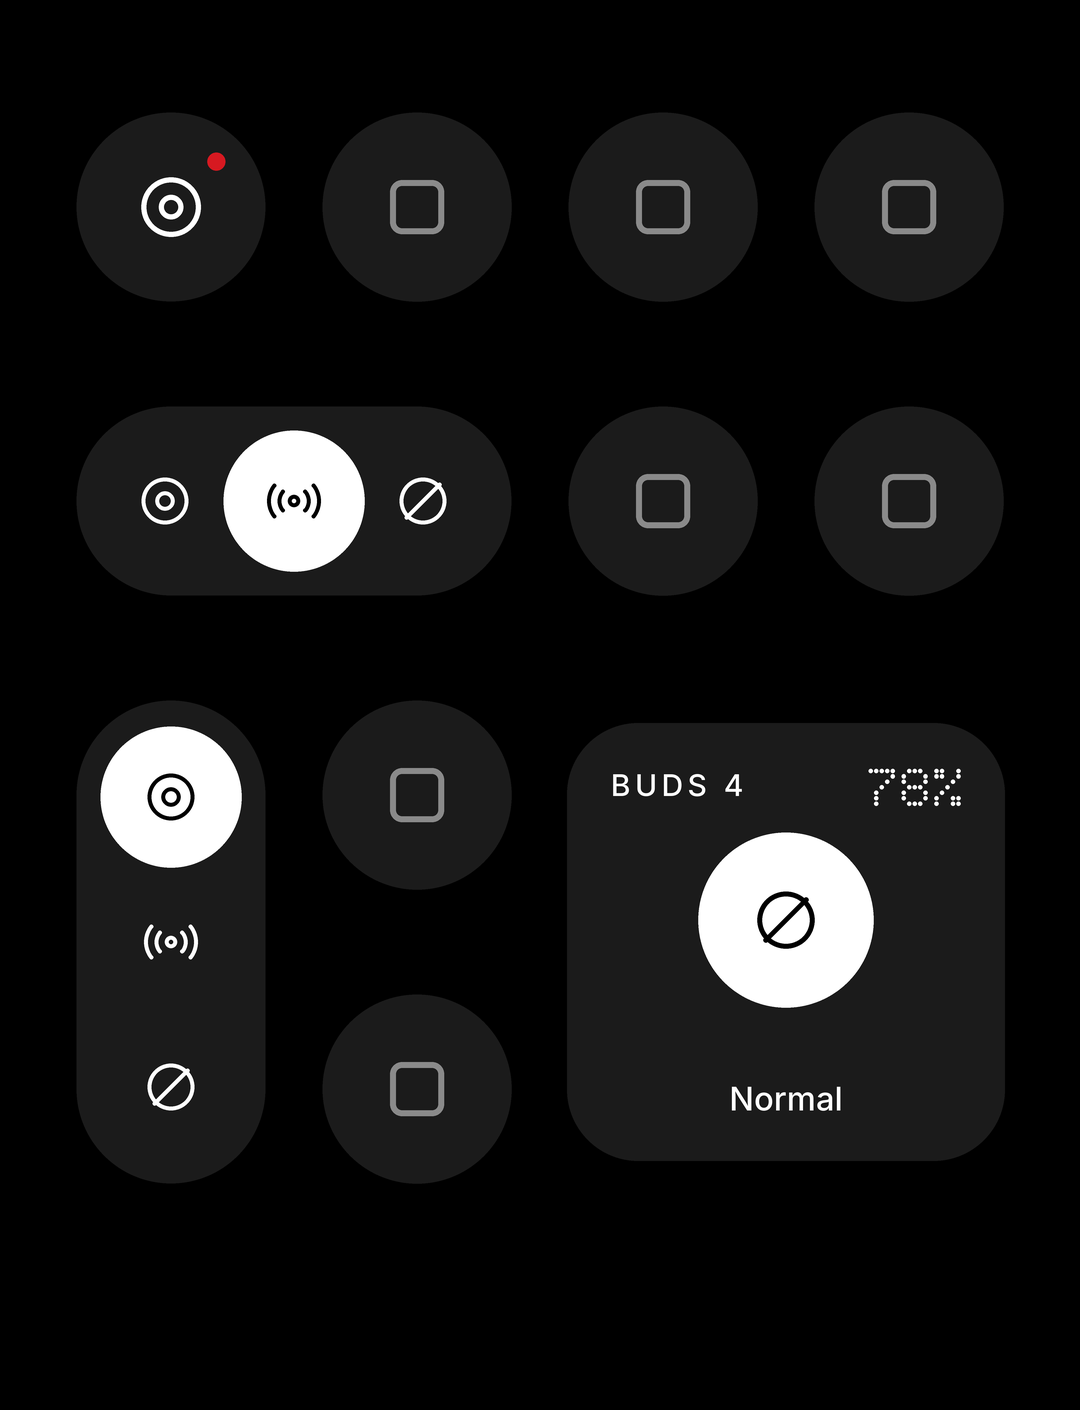
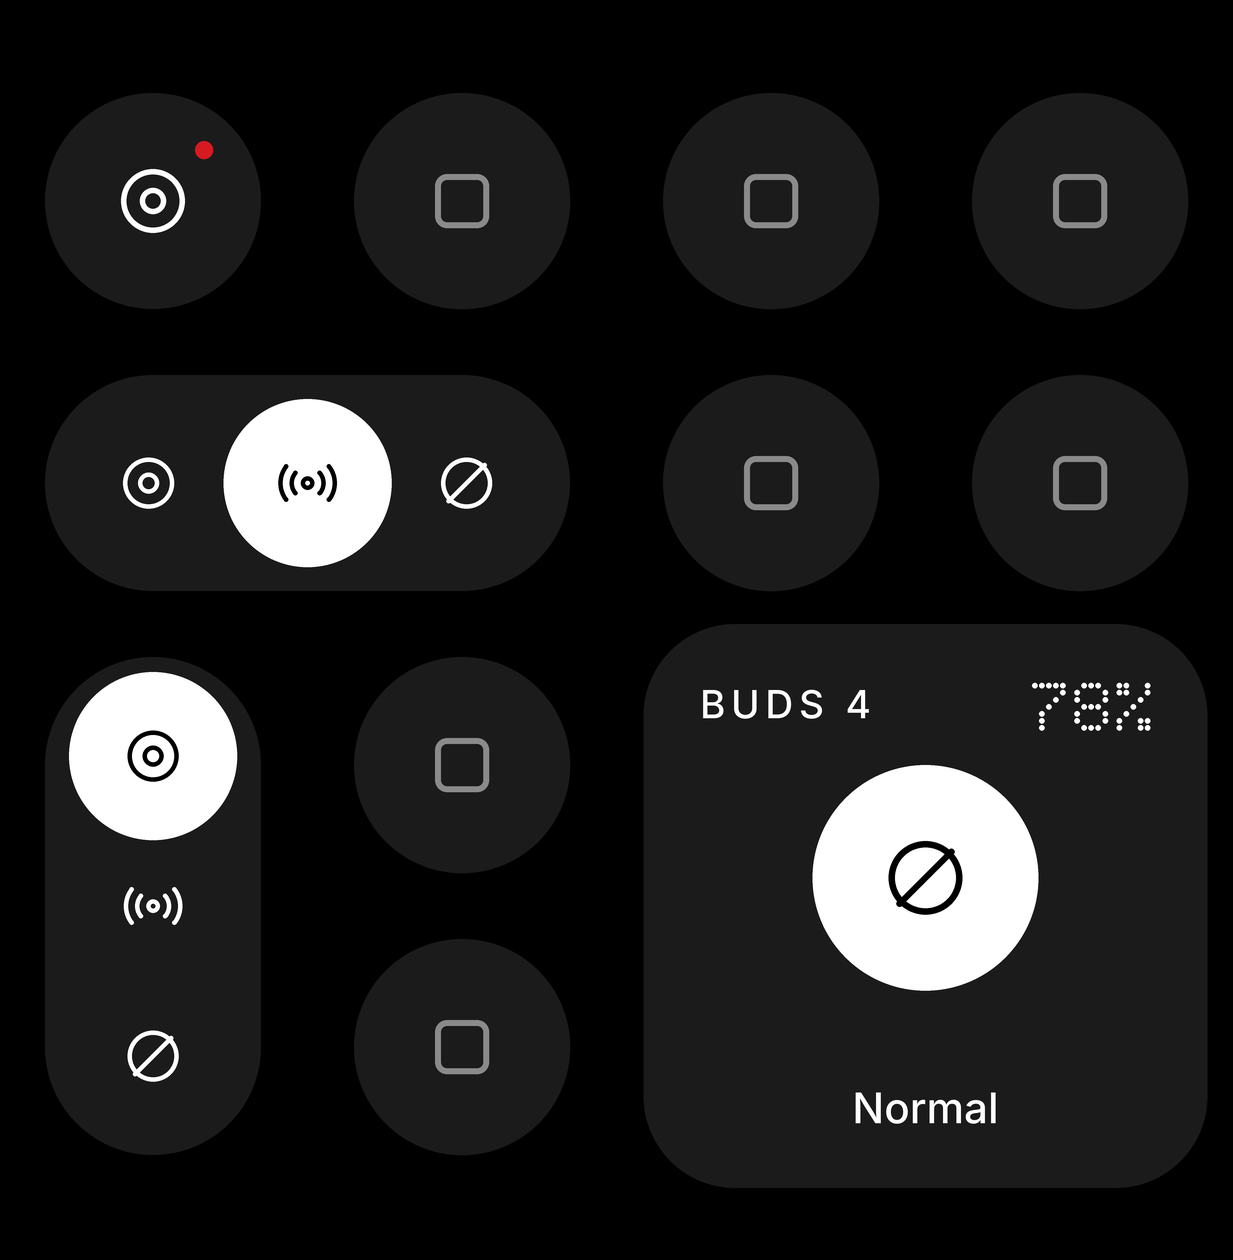
Widget 1x1 del mismo tamaño que los íconos de Nothing OS (72 dp)
Medido en un Nothing Phone (2a): los íconos de apps miden 72 dp y el
círculo del widget quedaba en 64 dp. Ahora círculo y cápsulas usan 72 dp,
con íconos y círculo activo escalados en proporción. Los umbrales de las
vistas adaptables se ajustan a una celda de ≈ 103×94 dp para que el 1x1
nunca caiga en otro formato.

Claude-Session: https://claude.ai/code/session_013JTBCs7RU5vFRzuqjwAFHg

diff --git a/3.Widget-Buds-Nothing/app/src/main/java/cl/tecnocreativas/budswidget/widget/BudsWidgetProvider.kt b/3.Widget-Buds-Nothing/app/src/main/java/cl/tecnocreativas/budswidget/widget/BudsWidgetProvider.kt
@@ -54,17 +54,17 @@ open class BudsWidgetProvider : AppWidgetProvider() {
 
         /**
          * Vistas adaptables. El launcher usa la más grande que quepa en el tamaño real del
-         * widget (en dp). En un Nothing de 4 columnas la celda mide ≈ 82×98 dp.
+         * widget (en dp). En el Nothing Phone (2a) con 4 columnas una celda mide ≈ 103×94 dp.
          */
         fun build(ctx: Context): RemoteViews {
             val s = BudsState(ctx)
             return RemoteViews(
                 mapOf(
                     SizeF(40f, 40f) to circle(ctx, s),
-                    SizeF(110f, 40f) to capsule(ctx, s, vertical = false),
-                    SizeF(40f, 110f) to capsule(ctx, s, vertical = true),
-                    SizeF(100f, 100f) to small(ctx, s),
-                    SizeF(220f, 100f) to wide(ctx, s),
+                    SizeF(150f, 40f) to capsule(ctx, s, vertical = false),
+                    SizeF(40f, 150f) to capsule(ctx, s, vertical = true),
+                    SizeF(130f, 130f) to small(ctx, s),
+                    SizeF(280f, 130f) to wide(ctx, s),
                 )
             )
         }

diff --git a/3.Widget-Buds-Nothing/tools/preview.py b/3.Widget-Buds-Nothing/tools/preview.py
@@ -326,9 +326,9 @@ def app(theme="dark", s=3):
 
 
 # ───────────── formatos compactos (1x1, 2x1, 1x2) para launchers de íconos redondos ─────────────
-# Medidas tomadas de la pantalla de inicio de Nothing OS (4 columnas): celda 82×98 dp,
-# íconos de 63 dp. Los widgets compactos usan esas mismas proporciones.
-CELL_W, CELL_H, ICON = 82, 98, 63
+# Medidas de la pantalla de inicio del Nothing Phone (2a) (411 dp de ancho, 4 columnas):
+# celda ≈ 103×94 dp, íconos de 72 dp. Los widgets compactos usan esas mismas proporciones.
+CELL_W, CELL_H, ICON = 103, 94, 72
 
 
 def circle_1x1(theme, active, s):
@@ -338,11 +338,11 @@ def circle_1x1(theme, active, s):
     img = Image.new("RGBA", (int(D), int(D)), (0, 0, 0, 0))
     d = ImageDraw.Draw(img)
     d.ellipse([0, 0, D - 1, D - 1], fill=t["bg"])
-    ic = 28 * s
+    ic = 30 * s
     draw_icon(d, active, (D - ic) / 2, (D - ic) / 2, ic, t["fg"])
     if active == "anc":  # único acento: punto rojo cuando la cancelación está activa
         r = 3 * s
-        d.ellipse([D * 0.74 - r, D * 0.26 - r, D * 0.74 + r, D * 0.26 + r], fill=RED)
+        d.ellipse([D / 2 + 17 * s - r, D / 2 - 17 * s - r, D / 2 + 17 * s + r, D / 2 - 17 * s + r], fill=RED)
     return img
 
 
@@ -354,7 +354,7 @@ def pill(theme, active, s, vertical=False):
     img = Image.new("RGBA", (int(W), int(H)), (0, 0, 0, 0))
     d = ImageDraw.Draw(img)
     d.rounded_rectangle([0, 0, W - 1, H - 1], radius=min(W, H) / 2, fill=t["bg"])
-    btn = 47 * s
+    btn = 56 * s
     pad = (ICON * s - btn) / 2
     span = (W if not vertical else H) - 2 * pad
     for i, (name, _) in enumerate(MODES):
@@ -363,7 +363,7 @@ def pill(theme, active, s, vertical=False):
         sel = name == active
         if sel:
             d.ellipse([cx - btn / 2, cy - btn / 2, cx + btn / 2, cy + btn / 2], fill=t["sel"])
-        ic = 22 * s
+        ic = 24 * s
         draw_icon(d, name, cx - ic / 2, cy - ic / 2, ic, t["on_sel"] if sel else t["fg"])
     return img
 
@@ -372,10 +372,10 @@ def home(theme="dark", s=3):
     """Pantalla de inicio de ejemplo (4 columnas) con los formatos nuevos junto a íconos."""
     t = THEMES[theme]
     S = s * SS
-    W, H = 360 * S, 470 * S
+    W, H = 411 * S, 420 * S
     img = Image.new("RGBA", (int(W), int(H)), t["wall"])
     d = ImageDraw.Draw(img)
-    x0 = (360 - 4 * CELL_W) / 2 * S
+    x0 = (411 - 4 * CELL_W) / 2 * S
     y0 = 20 * S
 
     def cell(c, r):
